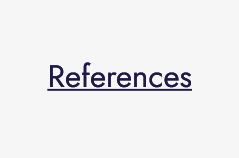
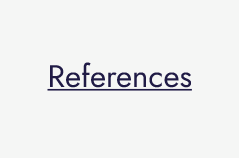
durability link and references button

Changed region(s): [[0.1757, 0.3797, 0.8201, 0.5823]]

diff --git a/css/home.css b/css/home.css
@@ -3,7 +3,7 @@
     height: 1.5%;
     box-sizing: border-box;
     position: absolute;
-    top: 39.3%;
-    left: 13%;
+    top: 46%;
+    left: 3%;
     /* border: 1px solid red; */
 }
